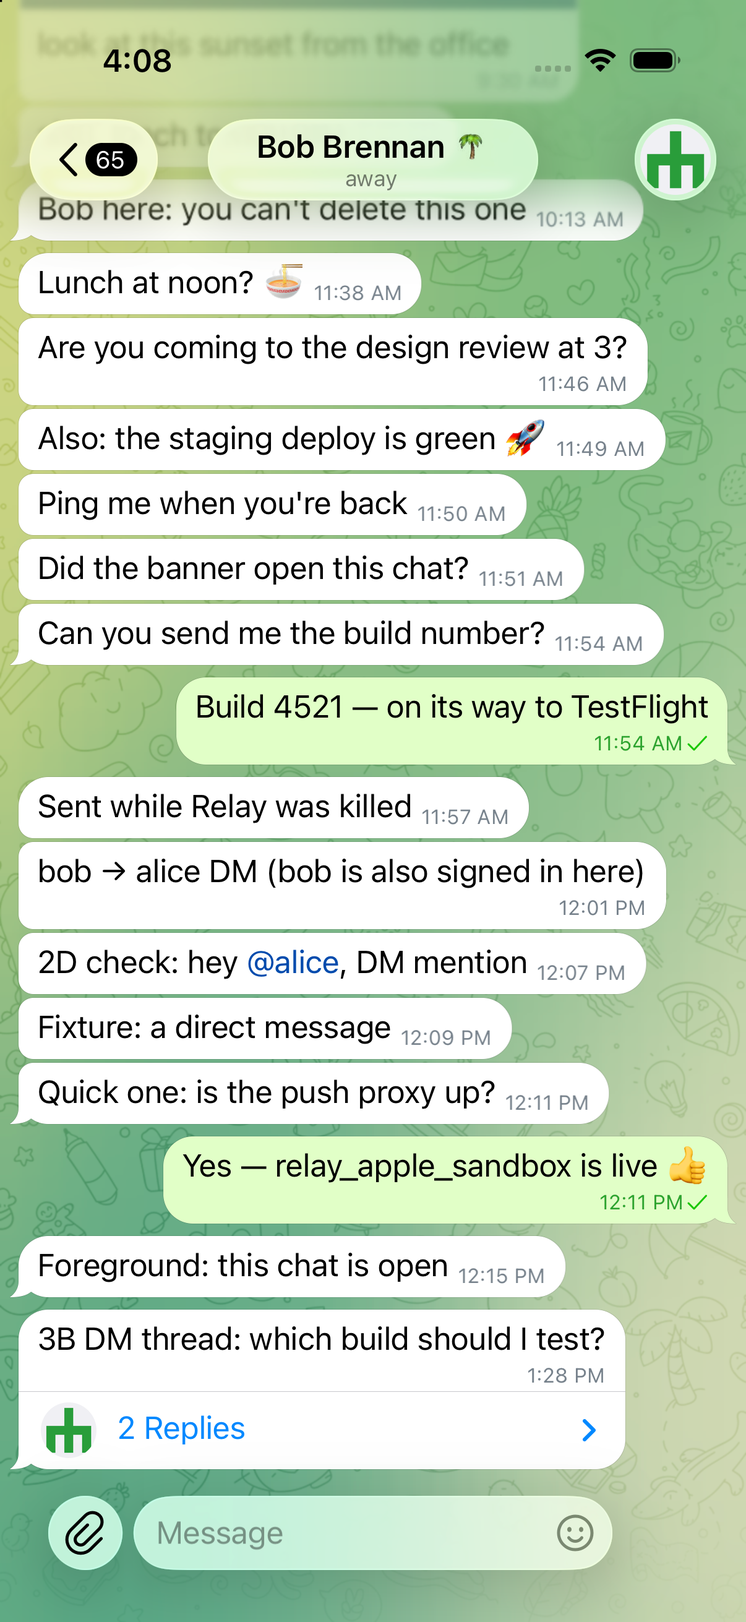
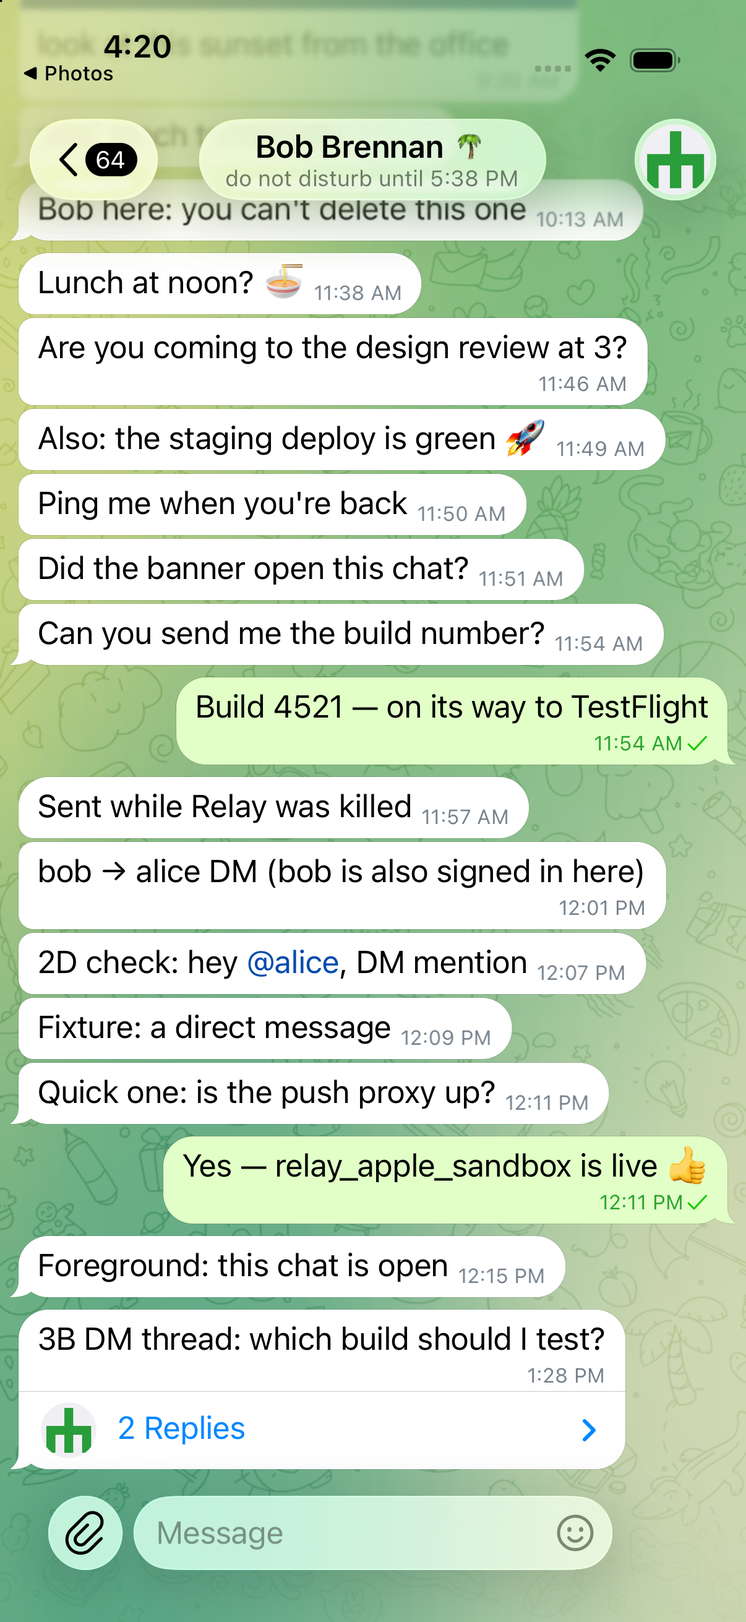
3F: design notes, debug commands, progress, screenshots; share progress clamped, hosted extension sheet closes on completion

Changed region(s): [[0.2454, 0.0618, 0.7363, 0.1236], [0.0614, 0.0, 0.2454, 0.0618]]

diff --git a/submodules/MattermostUI/Sources/MattermostShareExtensionDebug.swift b/submodules/MattermostUI/Sources/MattermostShareExtensionDebug.swift
@@ -62,6 +62,20 @@ enum MattermostShareExtensionDebug {
             completion(false, "no instantiateViewControllerWithInputItems:connectionHandler:")
             return
         }
+        // The extension completes or cancels its request: close the sheet, as the system share sheet does.
+        typealias RequestBlock = @convention(block) (NSUUID?, NSArray?) -> Void
+        typealias SetRequestBlock = @convention(c) (AnyObject, Selector, RequestBlock) -> Void
+        var presentedController: UIViewController?
+        let finished: RequestBlock = { _, _ in
+            DispatchQueue.main.async {
+                presentedController?.dismiss(animated: true)
+                presentedController = nil
+            }
+        }
+        let setCompletion = NSSelectorFromString("setRequestCompletionBlock:")
+        if (shareExtension as? NSObject)?.responds(to: setCompletion) == true, let setter = class_getMethodImplementation(type(of: shareExtension), setCompletion) {
+            unsafeBitCast(setter, to: SetRequestBlock.self)(shareExtension, setCompletion, finished)
+        }
         let handler: Handler = { _, viewController, error in
             DispatchQueue.main.async {
                 guard let viewController else {
@@ -73,6 +87,7 @@ enum MattermostShareExtensionDebug {
                     top = presented
                 }
                 viewController.modalPresentationStyle = .formSheet
+                presentedController = viewController
                 top?.present(viewController, animated: true)
                 completion(true, nil)
             }

diff --git a/submodules/MattermostShare/Sources/MattermostShare/MattermostShare.swift b/submodules/MattermostShare/Sources/MattermostShare/MattermostShare.swift
@@ -238,7 +238,8 @@ public final class MattermostShareSender: @unchecked Sendable {
                 let uploads = post.files.map { FileUpload(fileName: $0.fileName, mimeType: $0.mimeType, content: $0.content) }
                 let base = sentBytes
                 let response = try await self.client.uploadFiles(uploads, channelId: channelId, progress: { value in
-                    progress?(Double(base + value.bytesSent) / Double(totalBytes))
+                    // Multipart framing makes the bytes sent a little more than the files' sizes.
+                    progress?(min(1.0, Double(base + value.bytesSent) / Double(totalBytes)))
                 })
                 // The answer keeps the order of `client_ids`.
                 for clientId in uploads.map(\.clientId) {

diff --git a/docs/PROGRESS.md b/docs/PROGRESS.md
@@ -73,7 +73,7 @@ The open decisions in [09](plan/09-risks-and-decisions.md#open-decisions) were n
 | 3D-1 | Member lists, composer autocomplete (@ ~ :), slash commands, interactive dialogs | Done (main checkout, 3B merged in at `1df8fec4`); screenshots `docs/research/phase3d1-*.png` |
 | 3D-2 | Directory & membership: browse/join/create channels, DM/GM creation from compose, channel info edit/archive/leave, add/remove members | Done (main checkout; 3C merged in at `1a1c9734`); design: mattermost-sync.md "Directory and membership (3D-2)"; screenshots `docs/research/phase3d2-*.png` |
 | 3E | Link previews, markdown block bubble (headings/lists/tables/code), permalinks & deep links | Done on branch `worktree-agent-af73011e339a31270` (3C merged in at `9c7162fe`); merged into main by the 3F agent; design: mattermost-sync.md "Rich content and links (3E)"; screenshots `docs/research/phase3e-*.png` |
-| 3F | Own status (online/away/DND/offline, custom status), profile editing + avatar, share extension | Agent working (main checkout) |
+| 3F | Own status (online/away/DND/offline, custom status), profile editing + avatar, notification preferences, share extension | Done (main checkout; 3E merged in at `a461fca6`); design: mattermost-sync.md "Own status, profile, notifications, sharing (3F)"; screenshots `docs/research/phase3f-*.png` |
 
 ## Phase 4
 
@@ -237,3 +237,18 @@ The open decisions in [09](plan/09-risks-and-decisions.md#open-decisions) were n
   - Upstream files touched (all `// MATTERMOST:`): `TelegramUI/Sources/OpenUrl.swift` (link hook in `openCheckedExternalUrl`), `TelegramUI/Sources/SharedAccountContext.swift` (`openUserGeneratedUrl` skips the prompt for in-app links), `TelegramUI/Sources/ChatInterfaceStateContextMenus.swift` (Copy Link / Share Link after Save Post), `TextFormat/Sources/StringWithAppliedEntities.swift` (one call: heading sizes), `TextFormat/BUILD` (MattermostSyncCore dep); `Telegram-iOS/Relay.strings` (5 `Relay.Link.*` strings, appended).
   - Dev server state left by 3E: channel `relay-3e-links` ("3E Links", bob, alice) with link/markdown/permalink test posts and bob's edited post; public channel `relay-3e-public` (bob; alice joined through a link); the image proxy was switched on for the test and back off; alice's display preferences back to defaults. The 3E simulator has alice (localhost) and bob (`127.0.0.1:8065`).
 - **3E done** (branch `worktree-agent-af73011e339a31270`): link previews from `metadata.embeds` (images via server/image proxy only), markdown blocks (headings, list indents, highlighted code, tables), emoticons, permalinks/channel/user links open in-app (cross-account), `relay://<host>/<team>/pl/<post>` scheme, Copy/Share Link. Finding: `POST /posts/ids` returns no embeds on 11.7. 3E worktree removed. Phase 4 split into 4A–4D; 4A started in a worktree.
+- **3E merged into main by the 3F agent** (`a461fca6`; conflicts only in Relay.strings, PROGRESS.md and one debug-install line in `RelayDebugScreens.swift`, both sides kept). Merged build smoke-tested on "Relay iPhone 17 Pro": accounts load (3, running), chat list, ~relay-3e-links with link cards, a permalink tap opens the chat at the post; a permalink into a public channel alice hasn't joined (`relay-3f-unjoined`, made for this) opens 3D-2's channel preview (purpose, Join, recent messages) — `phase3f-permalink-unjoined.png`.
+- **3F done** (main checkout). Design: mattermost-sync.md "Own status, profile, notifications, sharing (3F)".
+  - **Own status:** Settings row named after the status (coloured icon, "Until 4:35 PM") → Status screen (Online / Away / Do Not Disturb: until turned off, 30 min, 1 h, 2 h, tomorrow 9:00, a date and time / Offline), and the same at the top of the Settings tab's long-press menu (DND pushes its durations). `PUT /users/{id}/status` with `dnd_end_time`; own `status_change` (other devices, the server ending a DND, auto away) updates Settings live.
+  - **Others' status:** `TelegramUserPresence`/`EnginePeer.Presence` carry `MattermostPresenceStatus` (away, DND + end); presence texts say "away" / "do not disturb until 5:38 PM" (chat titles, profiles, member lists). 11.x sends `status_change` only to the user it concerns, so MattermostSync polls `POST /users/status/ids` (DM partners + known users ≤ 400, ≥ 20 s) and writes changes.
+  - **Custom status:** the emoji in Telegram's emoji-status slot (chat list rows, chat title, profile and Settings headers, account list) as the locally rendered reaction image file; text and expiry in the profile row; expiry rewritten locally (Mattermost doesn't announce it); live via `user_updated`. Custom Status screen: emoji through Telegram's emoji keyboard (`EmojiStatusSelectionController`, now returning Unicode emoji), text, clear after (Mattermost's durations + date/time), recent (server preference), Mattermost's suggestions, Clear. Tap on the own status emoji → the screen; on someone else's → a toast.
+  - **Profile:** Edit Profile mapped for Mattermost (names in the header, nickname and position, Username and Email screens with local checks; SSO/LDAP/SAML fields read-only by `auth_service` + `*AttributeSet`); `PUT /users/me/patch`; picture upload (512 px JPEG) / removal through Telegram's photo handlers → `POST/DELETE /users/me/image`; own `user_updated` reloads `/users/me`, a new `last_picture_update` changes the avatar resource.
+  - **Notifications:** Settings → Notifications → MATTERMOST → Push Notifications and Mentions (push level, when, thread replies, first name, channel-wide, keywords) → user `notify_props`; a chat's Notifications → Customize → Mattermost's settings (push default/all/mentions/nothing, thread replies, follow all new threads, ignore channel-wide mentions, mute) → channel member `notify_props`.
+  - **Share extension:** Telegram's share UI over each account's Postbox; Send posts to Mattermost (MattermostShare, new SwiftPM package: account from `sync.sqlite`, token from the shared Keychain group, peer → channel/GM/DM (created if missing)/thread root, comment + texts in one message, ≤ 10 files per post, `MaxFileSize` checked, `POST /files` + `POST /posts`); picker avatars load with the account's session; no story/chat-import paths; simulator entitlements (app group).
+  - **Verified** (simulator "Relay iPhone 17 Pro", alice/bob/dave accounts; REST as alice/bob/dave; debug remote, BUILD.md "Phase 3F"): DND 30 min (server `dnd_end_time` = now+30 min truncated), 1 h from the tab menu, tomorrow (09:00 local), +90 min, Offline/Online/Away (server matches each); alice's status changed via REST → Settings followed (`status_change`); a 1-minute DND ended by the server (16:30:00) → the app followed (the server restores the previous status); dave's DND ended by the server → dave's account on the device saw it, alice's/bob's accounts polled it within 6 s; bob DND via REST → DM title "do not disturb until 5:38 PM", bob → away seen in 10 s; custom status set from the app (😎 "Shipping 3F", 1 h → server `expires_at` +1 h), shown in Settings header, account list, chat list rows, DM title, profile; a 1-minute custom status expired locally at 16:32:44 (expiry :43) in all three accounts; suggestion "Out for lunch" (30 min) and Clear on the server; bob's 🌴 status set via REST appeared live; Edit Profile: last name, nickname, position on the server; username taken → "This username is taken.", renamed to `alice.3f` and back; email with a wrong password → "The password is incorrect.", with the right one → `alice+3f@example.com` on the server, and back; picture uploaded from the app (new `last_picture_update`), bob's picture changed via REST → new avatar live, removal → negative `last_picture_update`, initials in the app; Push and Mentions: push all, away-or-offline, first name, no channel-wide, keywords `deploy,release` on the server, a REST change of `push` shown live, thread replies off → `push_threads: mention`, all reverted; channel Customize: push all, ignore channel mentions, auto-follow, mute on the server, reverted; share (in-app path): text + link + 2 images + text file → one post with 3 files and the comment, a share into a thread (`root_id`), a DM share; **the real share extension** hosted by the app (NSExtension, own process): picker with the account's chats, posted text/images/files to ~relay-3f-share as alice and — after switching the app to dave — as dave with dave's chats; only `127.0.0.1:8065` sockets from the app and the extension (lsof). MattermostKit 185 tests (5 skipped), MattermostSyncCore 165, MattermostPush 36, MattermostShare 9 (+ the live test, run with `MM_INTEGRATION=1`).
+  - **Only verified through debug paths:** taps don't reach Relay's windows, the extension's or Photos' sheets here (AXe touches work only on SpringBoard alerts), so: the emoji picker opens on screen but a pick is the screen's debug action setting the emoji name; the picture flow ran through `updateProfilePhoto` (the handler a picked photo runs) and the removal's signal, not through Telegram's picker/editor; the tab menu's items ran through their own actions (`status-menu-pick`; the menu was also presented); the real share extension was hosted by the app (`share-extension`) and sent by a debug file naming the chat (`share-auto.json`), not by tapping a chat and Send — the extension's chat picker, its account switcher and its comment field were not driven.
+  - **Found:** 11.x `status_change` goes only to the user whose status changed (clients poll statuses); `dnd_end_time` is truncated to the minute and the server restores the *previous* status at the end (which can be an earlier DND without end); an expired custom status is never announced; the `user_updated` copy is sanitized (empty notify props) — reload `/users/me`; `last_picture_update` turns negative after `DELETE /users/me/image`; an email change needs the current password (`api.context.invalid_body_param.app_error` without it); the server stores mention keys lowercased; remote arguments are strings (fixed in the 3F debug actions).
+  - **Gaps:** server custom emoji can't be picked for a custom status (Telegram's keyboard has Unicode emoji only; custom ones display); the chat list's online dot stays green for DND (the text says "do not disturb" in titles/profiles); others' statuses refresh every ≥ 20 s and only for DM partners and users the sync knows (≤ 400); Telegram's share picker offers threads only for forums, so thread sharing is reachable by the code path but not from the picker; videos/audio share as files (untested); "ignore channel mentions" can't go back to the user's default from the screen (on/off); the email change doesn't handle `RequireEmailVerification`; Telegram's local notification settings (sounds, previews, exceptions) stay below the Mattermost section; own-status presence isn't shown on My Profile beyond Settings.
+  - Upstream files touched (all `// MATTERMOST:`): `TelegramCore/SyncCore/SyncCore_TelegramUserPresence.swift` (optional Mattermost status fields), `TelegramCore/TelegramEngine/Peers/Peer.swift` (the same on `EnginePeer.Presence`), new `TelegramCore/Mattermost/MattermostPresenceStatus.swift`, `TelegramStringFormatting/PresenceStrings.swift` (away / DND texts), `ChatListUI/Node/ChatListItem.swift` (emoji status gate opened, 2 lines), `EmojiStatusSelectionComponent.swift` (Unicode emoji result), `SettingsUI/Notifications/NotificationsAndSoundsController.swift` (Mattermost section), new `AccountContext/MattermostUIHooks.swift`, PeerInfoScreen `PeerInfoScreen.swift` (section cases, settings data, emoji-status taps, Done, tab menu), `PeerInfoSettingsItems.swift` (status rows, Edit Profile gate), `PeerInfoScreenSettingsActions.swift`, `PeerInfoScreenAvatarSetup.swift` (upload/removal), `PeerInfoScreenPerformButtonAction.swift` (Customize), `ShareExtensionContext.swift` + BUILD (Mattermost send, no story/import, debug auto-send), `Telegram/BUILD` (share extension simulator entitlements), `TelegramUI/Sources/RelayDebugScreens.swift` (one install line); `Relay.strings` (3F block + three overrides).
+  - Dev server state left by 3F: channels `relay-3f-share` ("3F Share", dave; alice, bob) with shared posts (texts, images, files, a thread reply, dave's extension share) and `relay-3f-unjoined` ("3F Unjoined", bob, 2 posts; alice not a member); DM alice↔bob "DM share (3F)", DM dave↔carol test post; alice and bob back to their names, positions, pictures (re-uploaded originals), no custom status, online; dave's custom status "OOO until Monday" kept, his picture removed (he had none). Simulator: alice (current), dave, bob; a test photo in Photos.
+

diff --git a/docs/design/mattermost-sync.md b/docs/design/mattermost-sync.md
@@ -271,6 +271,18 @@ One card per post, and only when the message carrying the text has no other medi
 
 **Copy Link / Share Link** (message menu, after Save Post): `MattermostSync.permalink` = `<SiteURL, else the server URL>/<team>/pl/<post id>`, the team being the channel's, or the user's first team for DMs and group messages (Mattermost resolves the post's channel itself). Copy puts it on the pasteboard with Telegram's "Link copied" toast; Share opens the system share sheet with the URL (Telegram's share sheet sends to Telegram chats). Not offered for service messages and messages not on the server.
 
+## Own status, profile, notifications, sharing (3F)
+
+| Mattermost | Telegram | Where |
+|---|---|---|
+| Own status: `GET /users/me/status` (bootstrap, every new WebSocket connection), own `status_change` (another device, the server ending a DND, auto away); set with `PUT /users/{id}/status` (`dnd_end_time` in Unix seconds, truncated to the minute by the server, which restores the previous status at the end) | Settings: a row named after the status (icon in its colour, "Until 4:35 PM" for a DND end) → Status screen (Online / Away / Do Not Disturb with 30 min, 1 h, 2 h, tomorrow 9:00, a date and time / Offline); the same choices at the top of the Settings tab's long-press menu (Do Not Disturb pushes its durations). The own presence in Postbox carries the status too. | MattermostSync `Profile/MattermostProfile.swift` (`MattermostProfile` API); SyncCore `DoNotDisturbDuration`; MattermostUI `MattermostStatusControllers.swift`; PeerInfoScreen `MattermostProfileSettings.swift` |
+| Others' status: `status_change` is sent **only to the user whose status changed** (11.x); clients poll `POST /users/status/ids` | the presence carries `MattermostPresenceStatus` (TelegramCore, encoded only when set): `away` → "away", `dnd` → "do not disturb until 5:38 PM" (`stringAndActivityForUserPresence`: chat titles, profiles, member lists). MattermostSync polls the DM partners and known users (≤ 400) while connected, at least every 20 s (`UsersStatusAndProfileFetchingPollIntervalMilliseconds`), and writes changed presences; a DND's end comes from the same request. | `startStatusPolling`, `PeerConverter.presence` |
+| Custom status (`props.customStatus`; `PUT/DELETE /users/me/status/custom`; recent ones in the `custom_status` / `recent_custom_statuses` preference, which the server keeps) | Telegram's emoji status slot next to the name (chat list rows, chat title, profile and Settings headers, account list): `PeerEmojiStatus(.emoji(fileId))` of the locally rendered static emoji image (the reaction image files of 2A/2C: Unicode glyphs, `:name:` custom emoji from the server), its file stored with `storeMediaIfNotPresent`; a text-only status shows 💬 as Mattermost does. Mattermost never announces an expired status (clients hide it), so MattermostSync rewrites users when their status expires (`scheduleCustomStatusExpiry`). Live via `user_updated`. Custom Status screen: emoji (Telegram's emoji keyboard in `EmojiStatusSelectionController`, which now hands back Unicode emoji as a file whose `.CustomEmoji` alt is the emoji), text (100), clear after (don't clear, 30 min, 1 h, 4 h, today, this week, a date and time), recent statuses, Mattermost's default suggestions, Clear. Tapping the emoji next to the own name opens it; next to someone else's name, a toast with their status. | `PeerConverter.customStatusEmoji`, `MattermostReactionImages`; SyncCore `CustomStatusDuration`, `CustomStatusSuggestion`; MattermostUI; `EmojiStatusSelectionComponent` (one hunk) |
+| Profile: `PUT /users/me/patch` (first/last name, nickname, position, username, email with the current password); `POST/DELETE /users/me/image` | Telegram's Edit Profile (Settings → Edit) for Mattermost accounts: names in the header, nickname and position inputs, Username and Email rows (own screens, checked locally: SyncCore `UsernameRules`), Add Account, Log Out; Done saves the changed fields. What SSO/LDAP/SAML users may change follows `auth_service` and the client config's `Ldap*AttributeSet`/`Saml*AttributeSet` (SyncCore `ProfileFieldAccess`). The picture flow is Telegram's (picker, editor, removal); the upload/removal signal is Mattermost's (a 512 px JPEG); the own user is reloaded after it, so `last_picture_update` changes the avatar resource id and every cached picture is replaced (a removed picture has a negative `last_picture_update` on 11.x → Telegram's initials). Own `user_updated` reloads `GET /users/me` (the event's copy is sanitized: no notify props). | `MattermostProfile.updateProfile`, `setProfilePicture`; PeerInfoScreen `settingsEditingItems` gate, Done handler, `updateProfilePhoto` / removal hooks |
+| User notify props (`push`, `push_status`, `push_threads`, `mention_keys`, `first_name`, `channel`) | Settings → Notifications → MATTERMOST → Push Notifications and Mentions (SettingsUI opens it through `MattermostUIHooks`, AccountContext): push for all / mentions, DMs, GMs / nothing; when online-away-offline / away-offline / offline; all replies to followed threads (collapsed threads); first name, channel-wide mentions, keywords. Saved at once (the full props map with the changed keys). | SyncCore `UserNotificationPreferences`; MattermostUI `MattermostProfileControllers.swift` |
+| Channel member notify props (`push`, `push_threads`, `ignore_channel_mentions`, `mark_unread`, `channel_auto_follow_threads`) | the chat profile's Notifications → Customize opens Mattermost's settings instead of Telegram's: default/all/mentions/nothing, thread replies and follow all new threads (collapsed threads), ignore channel-wide mentions (channels), mute. `PUT …/members/me/notify_props`, then the channel is rewritten (mute → Telegram's mute). | SyncCore `ChannelNotificationPreferences`; `PeerInfoScreenPerformButtonAction` (one hunk) |
+| Share extension | Telegram's share extension and its chat picker (over each account's Postbox via `standaloneStateManager`, null network; the picker's avatars load with the account's session: `MattermostShareExtension.prepareAccount`). Send runs `mattermostShareExternalItems`: the other app's items (`TGItemProviderSignals`: text, URL, image, file, video, audio) become texts and files; MattermostShare finds the account (`<root>/account-<id>/mattermost/sync.sqlite`, read-only) and its token (shared Keychain group, 3A), the Mattermost chat of each chosen peer (channel, GM, DM — created with `POST /channels/direct` when missing — or a thread's root post when the picker passes a thread id), plans the posts (comment + texts as one message, at most 10 files per post, the message on the first) and uploads (`POST /files`, then `POST /posts`). The server's `MaxFileSize` is checked first. No stories, no Telegram chat import. Simulator builds give the extension the app group (`ShareSimulatorEntitlements`). | `submodules/MattermostShare` (SwiftPM, tested, live test against the dev server); MattermostSync `Share/MattermostShareExtension.swift`; ShareExtensionContext |
+
 ## Media resources
 
 `MattermostFileResource(fileId, variant)`, `MattermostAvatarResource(userId, lastPictureUpdate)`, `MattermostURLImageResource(url)` (attachment images, webhook icons, link preview images: on the server directly, elsewhere only through the server's image proxy, see "Rich content and links (3E)"; flattened onto white because Telegram draws photos opaque), all `TelegramMediaResource` + `PostboxCoding`, registered in `mattermostDeclareEncodables()` (app and every extension; R§6). Type names are part of the storage format: never rename them. Fetched through the auxiliary `fetchResource` hook with a `URLSession` that adds the bearer token and supports byte ranges.

diff --git a/docs/BUILD.md b/docs/BUILD.md
@@ -237,6 +237,44 @@ network namespace (`docker run --network container:mmdev-mattermost-1 …`, list
 `http://localhost:<port>/…` links. Preview images load only from the server itself or through its image proxy
 (`ImageProxySettings.Enable`, `PUT /api/v4/config/patch` as sysadmin; it is off on the dev server by default).
 
+#### Phase 3F: own status, profile, notification preferences, sharing (debug builds only)
+
+TelegramUI `RelayDebugProfile.swift`, PeerInfoScreen `RelayDebugProfileSettings.swift`; the screens they open are
+MattermostUI list screens, read and driven with `directory` / `directory-do` (their `debugActions`). Remote arguments
+are strings (`key=value`); numbers and booleans are parsed by the screens.
+
+```sh
+tools/relay-remote.py "$UDID" profile-state                            # own status, custom status, profile fields (compare with REST)
+tools/relay-remote.py "$UDID" settings-row row=status                  # Settings rows: status, custom-status, edit, avatar, notifications, username, email (keep=1: don't pop first)
+tools/relay-remote.py "$UDID" directory-do do=select status=away       # Status screen: online/away/dnd/offline
+tools/relay-remote.py "$UDID" directory-do do=dnd duration=30m         # Do Not Disturb: (none: until turned off) 30m 1h 2h tomorrow, custom minutes=90
+tools/relay-remote.py "$UDID" status-menu                              # the Settings tab's long-press status items; status-menu-show presents the menu
+tools/relay-remote.py "$UDID" status-menu-pick "title=Do Not Disturb" "sub=For 1 Hour"   # an item's own action
+tools/relay-remote.py "$UDID" directory-do do=pick-emoji               # Custom Status: Telegram's emoji picker on the emoji row
+tools/relay-remote.py "$UDID" directory-do do=emoji value=palm_tree    # … the emoji a pick turns into (taps don't reach the picker here)
+tools/relay-remote.py "$UDID" directory-do do=text "value=On vacation" # … text; duration value=one_hour (dont_clear, thirty_minutes, four_hours, today, this_week, date_and_time minutes=N)
+tools/relay-remote.py "$UDID" directory-do do=submit                   # … Set; also recent index=N, suggestion index=N, clear
+tools/relay-remote.py "$UDID" edit-profile do=begin                    # Edit Profile: set field=first|last|nickname|position value=…, done, cancel
+tools/relay-remote.py "$UDID" directory-do do=set index=0 value=…      # Username / Email screens (email: index=1 is the password); submit
+tools/relay-remote.py "$UDID" avatar do=set text=3F                    # a generated picture through the Settings photo handler; do=remove: the removal
+tools/relay-remote.py "$UDID" push-mentions                            # Settings → Notifications → Push and Mentions; directory-do do=push value=all, push-status, threads, first-name, channel-wide (value=true|false), keywords
+tools/relay-remote.py "$UDID" chat-notifications                       # on a chat's profile (peerinfo first): Customize; directory-do do=push value=default|all|mention|none, threads, ignore-channel-mentions, mute, auto-follow
+tools/relay-remote.py "$UDID" share-test chat=relay-3f-share "text=…" url=… images=2 files=1 thread=<root post id>   # the share extension's posting, in the app
+tools/relay-remote.py "$UDID" share-extension "text=…" images=1 files=1   # the real share extension, hosted by the app (see below)
+tools/relay-remote.py "$UDID" chats-tab                                # back to the Chats tab
+```
+
+**The real share extension.** Simulator taps reach neither Relay's windows nor Photos' share sheet on this setup
+(AXe's touches only work on SpringBoard alerts), so the extension can't be driven from Photos. Instead the app hosts
+its own extension the way `UIActivityViewController` does (`NSExtension` + `instantiateViewControllerWithInputItems:`,
+MattermostUI `MattermostShareExtensionDebug.swift`) with generated items (text, URL, JPEG and text files as file URLs):
+the extension runs in its own process with its own Keychain access, Postbox and uploads. Its picker can't be tapped
+either, so a debug file in the app group names the chat: `{"peerId": <PeerId.toInt64()>, "comment": "…", "delay": 6}`
+in `<group container>/telegram-data/relay-debug/share-auto.json` (`xcrun simctl get_app_container "$UDID"
+org.relaychat.Relay groups`; the peer id from `peerinfo` + `info-state`). After `delay` seconds the extension posts
+through what its Send button runs and writes `share-result.json` next to it; the extension logs
+`[Relay] share: shared …`. It uses the current account (switch first with `switch username=…`).
+
 #### Phase 2D hooks (debug builds only)
 
 - `RELAY_DEBUG_OPEN_SCREEN=devices` (Settings → Devices), `openlinks` (Open Links In), `reaction-notifications`, `authorinfo` (profile of the newest message's author in the chat `RELAY_DEBUG_OPEN_CHAT` opened, e.g. a webhook's name override), `settings:add-account` (Settings → Add Account through the Settings handler, account limit included).
@@ -257,12 +295,13 @@ Simulator builds (`--disableProvisioningProfiles`) get `aps-environment: develop
 
 ## Pure Swift packages
 
-`submodules/MattermostKit`, `submodules/MattermostSyncCore` and `submodules/MattermostPush` are SwiftPM packages with no Telegram dependencies:
+`submodules/MattermostKit`, `submodules/MattermostSyncCore`, `submodules/MattermostPush` and `submodules/MattermostShare` are SwiftPM packages with no Telegram dependencies:
 
 ```sh
 cd submodules/MattermostKit && swift test
 cd submodules/MattermostSyncCore && swift test
 cd submodules/MattermostPush && swift test
+cd submodules/MattermostShare && swift test            # MM_INTEGRATION=1: also shares as dave into ~relay-3f-share on the dev server
 ```
 
 ## Local Mattermost server
